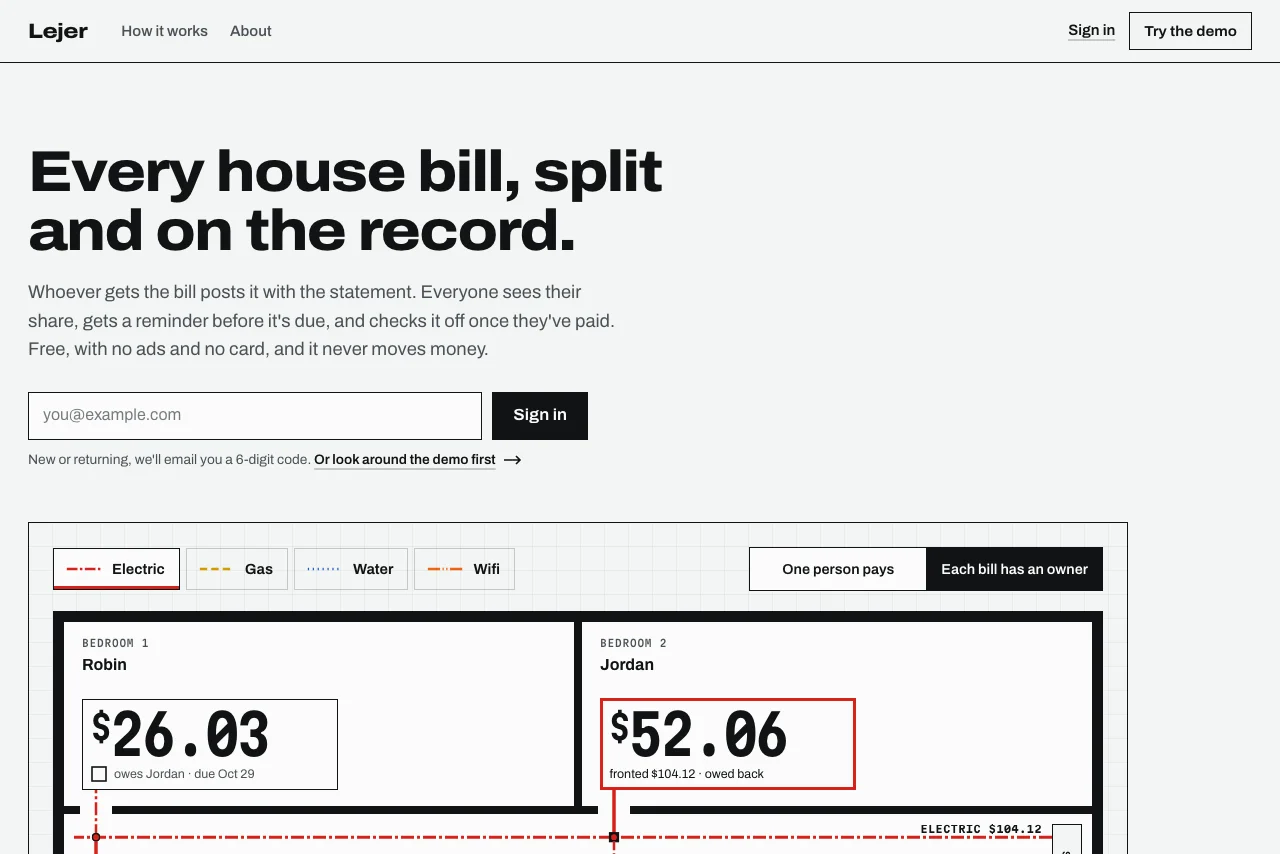
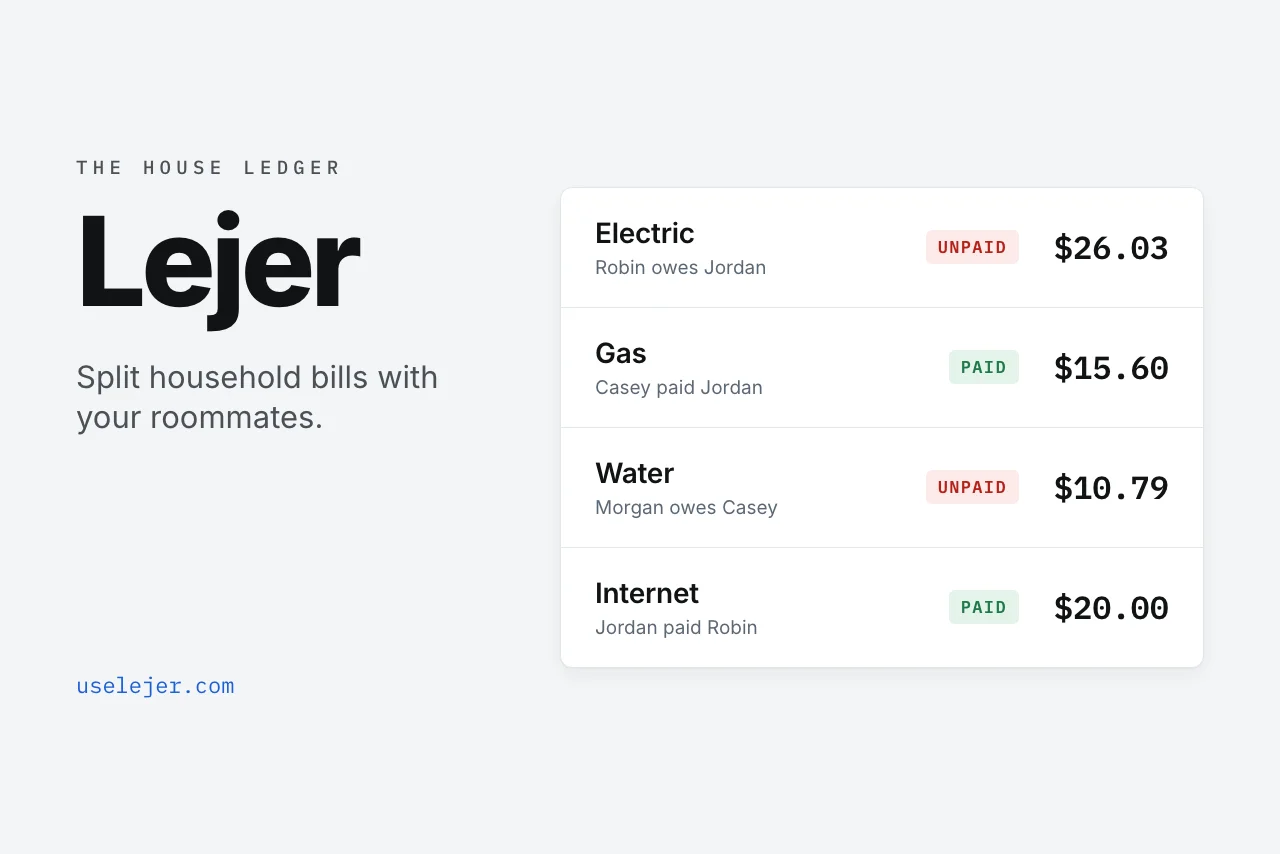
Replace the 77 N Union card with Lejer and redraw the card image
Lejer supersedes the 77 N Union Utilities app (both houses run on it
now), so the 77 N Union card, its image, and its curl /links and /json
entries are gone. Its names ("77 N Union Utilities", "Utility Manager")
become aliases on the Lejer card so the resume links already sent out
and any indexed /?project= URLs still open a card, and the Lejer blurb
notes where it came from. The resume's project entry follows suit and
the PDF is still one page.

The card image is now drawn in the style of uselejer.com's Open Graph
image (eyebrow, wordmark, tagline, URL, and a four-row ledger) but
composed for the grid's 1280x854 frame, rendered from a small HTML page
with headless Chrome, instead of a screenshot of the landing page.

diff --git a/data/projects.ts b/data/projects.ts
@@ -17,7 +17,8 @@ export const projects: Project[] = [
     image: "/img/lejer.webp",
     tagline: "Shared bills for the people you live with",
     descHtml:
-      'Lejer is the hosted version of my bill-splitting apps, for anyone who shares a lease: sign up with an email code, invite the people you live with, and post each house bill with its statement — everyone sees their share, gets a reminder before it\'s due, and checks off when they\'ve paid, whether one person pays everything or each bill has its own owner who fronts it. I built it with Next.js, TypeScript & Tailwind CSS on Postgres (Neon, with row-level security per household), Vercel Blob, and Resend; it\'s free, with no ads, and both of my houses moved onto it at launch. There\'s a <a href="https://uselejer.com/demo" target="_blank">sample household</a> to poke around. <a href="https://uselejer.com" target="_blank">View Site</a>',
+      'Lejer is the hosted version of my bill-splitting apps, for anyone who shares a lease: sign up with an email code, invite the people you live with, and post each house bill with its statement — everyone sees their share, gets a reminder before it\'s due, and checks off when they\'ve paid, whether one person pays everything or each bill has its own owner who fronts it. I built it with Next.js, TypeScript & Tailwind CSS on Postgres (Neon, with row-level security per household), Vercel Blob, and Resend; it\'s free, with no ads, and it grew out of the dashboard my roommates and I used at 77 N Union — both of my houses moved onto it at launch. There\'s a <a href="https://uselejer.com/demo" target="_blank">sample household</a> to poke around. <a href="https://uselejer.com" target="_blank">View Site</a>',
+    aliases: ["77 N Union Utilities", "Utility Manager"],
   },
   {
     name: "Iocon Graphics",
@@ -33,14 +34,6 @@ export const projects: Project[] = [
     descHtml:
       'Catamount Sublets is a platform I built for UVM students to find and post sublets — browse by price, semester, and distance from campus on a grid or a map, sign in with a code sent to your UVM email, and share any listing with a public link. It replaced UVM Sublets, my old PHP app: I rebuilt it in Next.js & TypeScript with Postgres, Vercel Blob, and MapLibre, and moved every live listing over at launch. <a href="https://catamountsublets.com" target="_blank">View Site</a>',
     aliases: ["UVM Sublets"],
-  },
-  {
-    name: "77 N Union Utilities",
-    image: "/img/77-n-union-utilities.webp",
-    tagline: "Bill splitting & reminders for my apartment",
-    descHtml:
-      '77 N Union Utilities is the dashboard my roommates and I use to track our gas, electric, and internet bills — it splits each bill, tracks who has paid, charts cost trends, and emails reminders before anything is due. I rewrote it from PHP in Next.js & TypeScript, with TiDB Cloud and Vercel Blob. I\'ve adapted it for a second house (<a href="https://github.com/aaronperkel/peach-cob" target="_blank">Peach Cob</a>), and both houses now run on <a href="https://uselejer.com" target="_blank">Lejer</a>, the hosted version for any household. <a href="https://github.com/aaronperkel/utilities" target="_blank">GitHub Repo</a>',
-    aliases: ["Utility Manager"],
   },
   {
     name: "Vermont Plate Log",

diff --git a/data/resume.ts b/data/resume.ts
@@ -111,11 +111,11 @@ export const resumeData = {
       ],
     },
     {
-      link: "/?project=77%20N%20Union%20Utilities",
-      name: "77 N Union Utilities",
-      description: "Internal tool for splitting shared household bills — Next.js rewrite of a PHP app",
+      link: "/?project=Lejer",
+      name: "Lejer",
+      description: "Hosted, multi-tenant household bill splitting — uselejer.com",
       details: [
-        "Rewrote a two-year-old PHP/MySQL app as Next.js 15 + TypeScript, migrating the live DB to TiDB Cloud and PDFs to Vercel Blob with no user interruption; email-code auth, cron scheduler, signed JSON API",
+        "Grew my roommates' PHP bill tracker into a product any household can sign up for: Next.js 16 + TypeScript on Neon Postgres with row-level security per household, email-code auth, Vercel Blob statements, and Resend reminders; migrated both existing houses at launch",
       ],
     },
   ] satisfies ResumeProject[],

diff --git a/data/cli.ts b/data/cli.ts
@@ -97,12 +97,6 @@ export const linksTxt = [
   ),
   "",
   project(
-    "77 N Union Utilities",
-    "Bill splitting & reminders for my apartment",
-    "https://github.com/aaronperkel/utilities",
-  ),
-  "",
-  project(
     "Vermont Plate Log",
     "Logging Vermont plates spotted around Burlington",
     "https://github.com/aaronperkel/vermont-plate-log",
@@ -136,7 +130,6 @@ export const cliJson = {
     { title: "Lejer", url: "https://uselejer.com" },
     { title: "Íocón", url: "https://iocongraphics.com" },
     { title: "Catamount Sublets", url: "https://catamountsublets.com" },
-    { title: "77 N Union Utilities", url: "https://github.com/aaronperkel/utilities" },
     { title: "Vermont Plate Log", url: "https://github.com/aaronperkel/vermont-plate-log" },
   ],
 };
